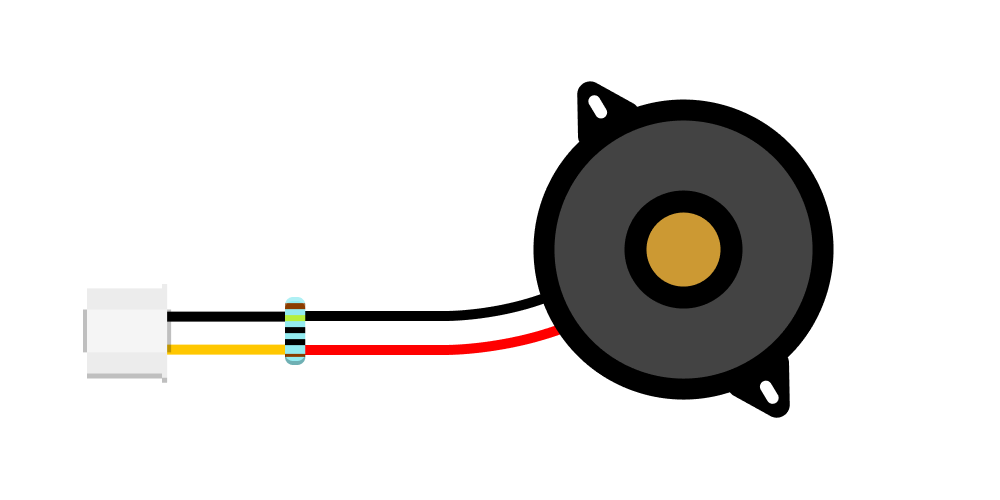
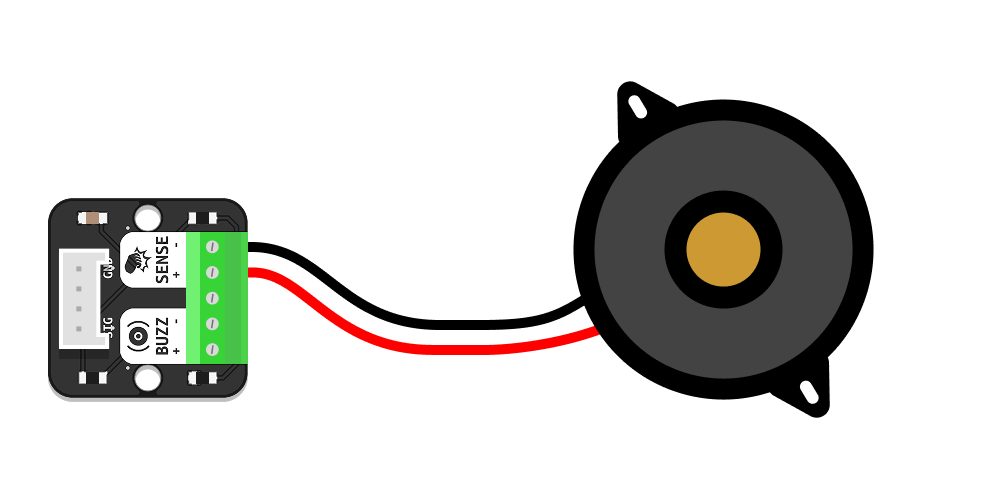
Update Piezo Components

Changed region(s): [[0.031, 0.15, 0.899, 0.84]]

diff --git a/docs/components/knock-sensor/knock-sensor.md b/docs/components/knock-sensor/knock-sensor.md
@@ -18,7 +18,13 @@ Can detect knocks and impacts.
 This component is based on [Adafruit's Large Enclosed Piezo Element](https://www.adafruit.com/product/1739).
 
 {:.important}
-Make sure your component has a resistor in parallel with the Piezo Element (bridging the black wire to the red/yellow one, as shown above.) If there is a resistor embedded in the black wire, then the component is configured as a [Piezo Buzzer](../piezo-buzzer/piezo-buzzer) and cannot be used as a sensor!
+Make sure your Piezo Element is wired to the **SENSE** terminals on the Piezo Config Board, as pictured above. If the wires are connected to the **BUZZ** terminals, the component is configured as a [Piezo Buzzer](../piezo-buzzer/piezo-buzzer) and cannot be used as a sensor!
+
+{:.highlight-yellow}
+<img src="assets/knock-sensor-old.png" alt="Old Knock Sensor"  style="float: right; margin: 10px 0px;" width="220"/>An **older version** of the Knock Sensor **without** the configuration board is also available. It consists of a piezo element with a resistor across its leads, as pictured here. If handled carelessly it can cause damage to the microcontroller. Whenever possible, favor the **newer version**, especially for long-term projects.
+
+
+
 
 ---
 

diff --git a/docs/components/piezo-buzzer/piezo-buzzer.md b/docs/components/piezo-buzzer/piezo-buzzer.md
@@ -16,7 +16,10 @@ Can generate beeping sounds and melodies.
 This component is based on [Adafruit's Large Enclosed Piezo Element](https://www.adafruit.com/product/1739).
 
 {:.important}
-Make sure your component has a resistor in series with the Piezo Element (embedded in the black wire, as shown above.) If there is a resistor bridging the black with the red/yellow wire, then the component is configured as a [Knock Sensor](../knock-sensor/knock-sensor) and cannot be used to generate tones!
+Make sure your Piezo Element is wired to the **BUZZ** terminals on the Piezo Config Board, as pictured above. If the wires are connected to the **SENSE** terminals, the component is configured as a [Knock Sensor](../knock-sensor/knock-sensor) and cannot be used to generate tones!
+
+{:.highlight}
+<img src="assets/piezo-buzzer-passive-old.png" alt="Old Piezo Buzzer"  style="float: right;" width="220"/>An **older version** of the Piezo Buzzer **without** the configuration board is also available. It consists of a piezo element with a resistor in one of its leads, as pictured here. It is functionally identical with the new version and can be used the same way. 
 
 ---
 
